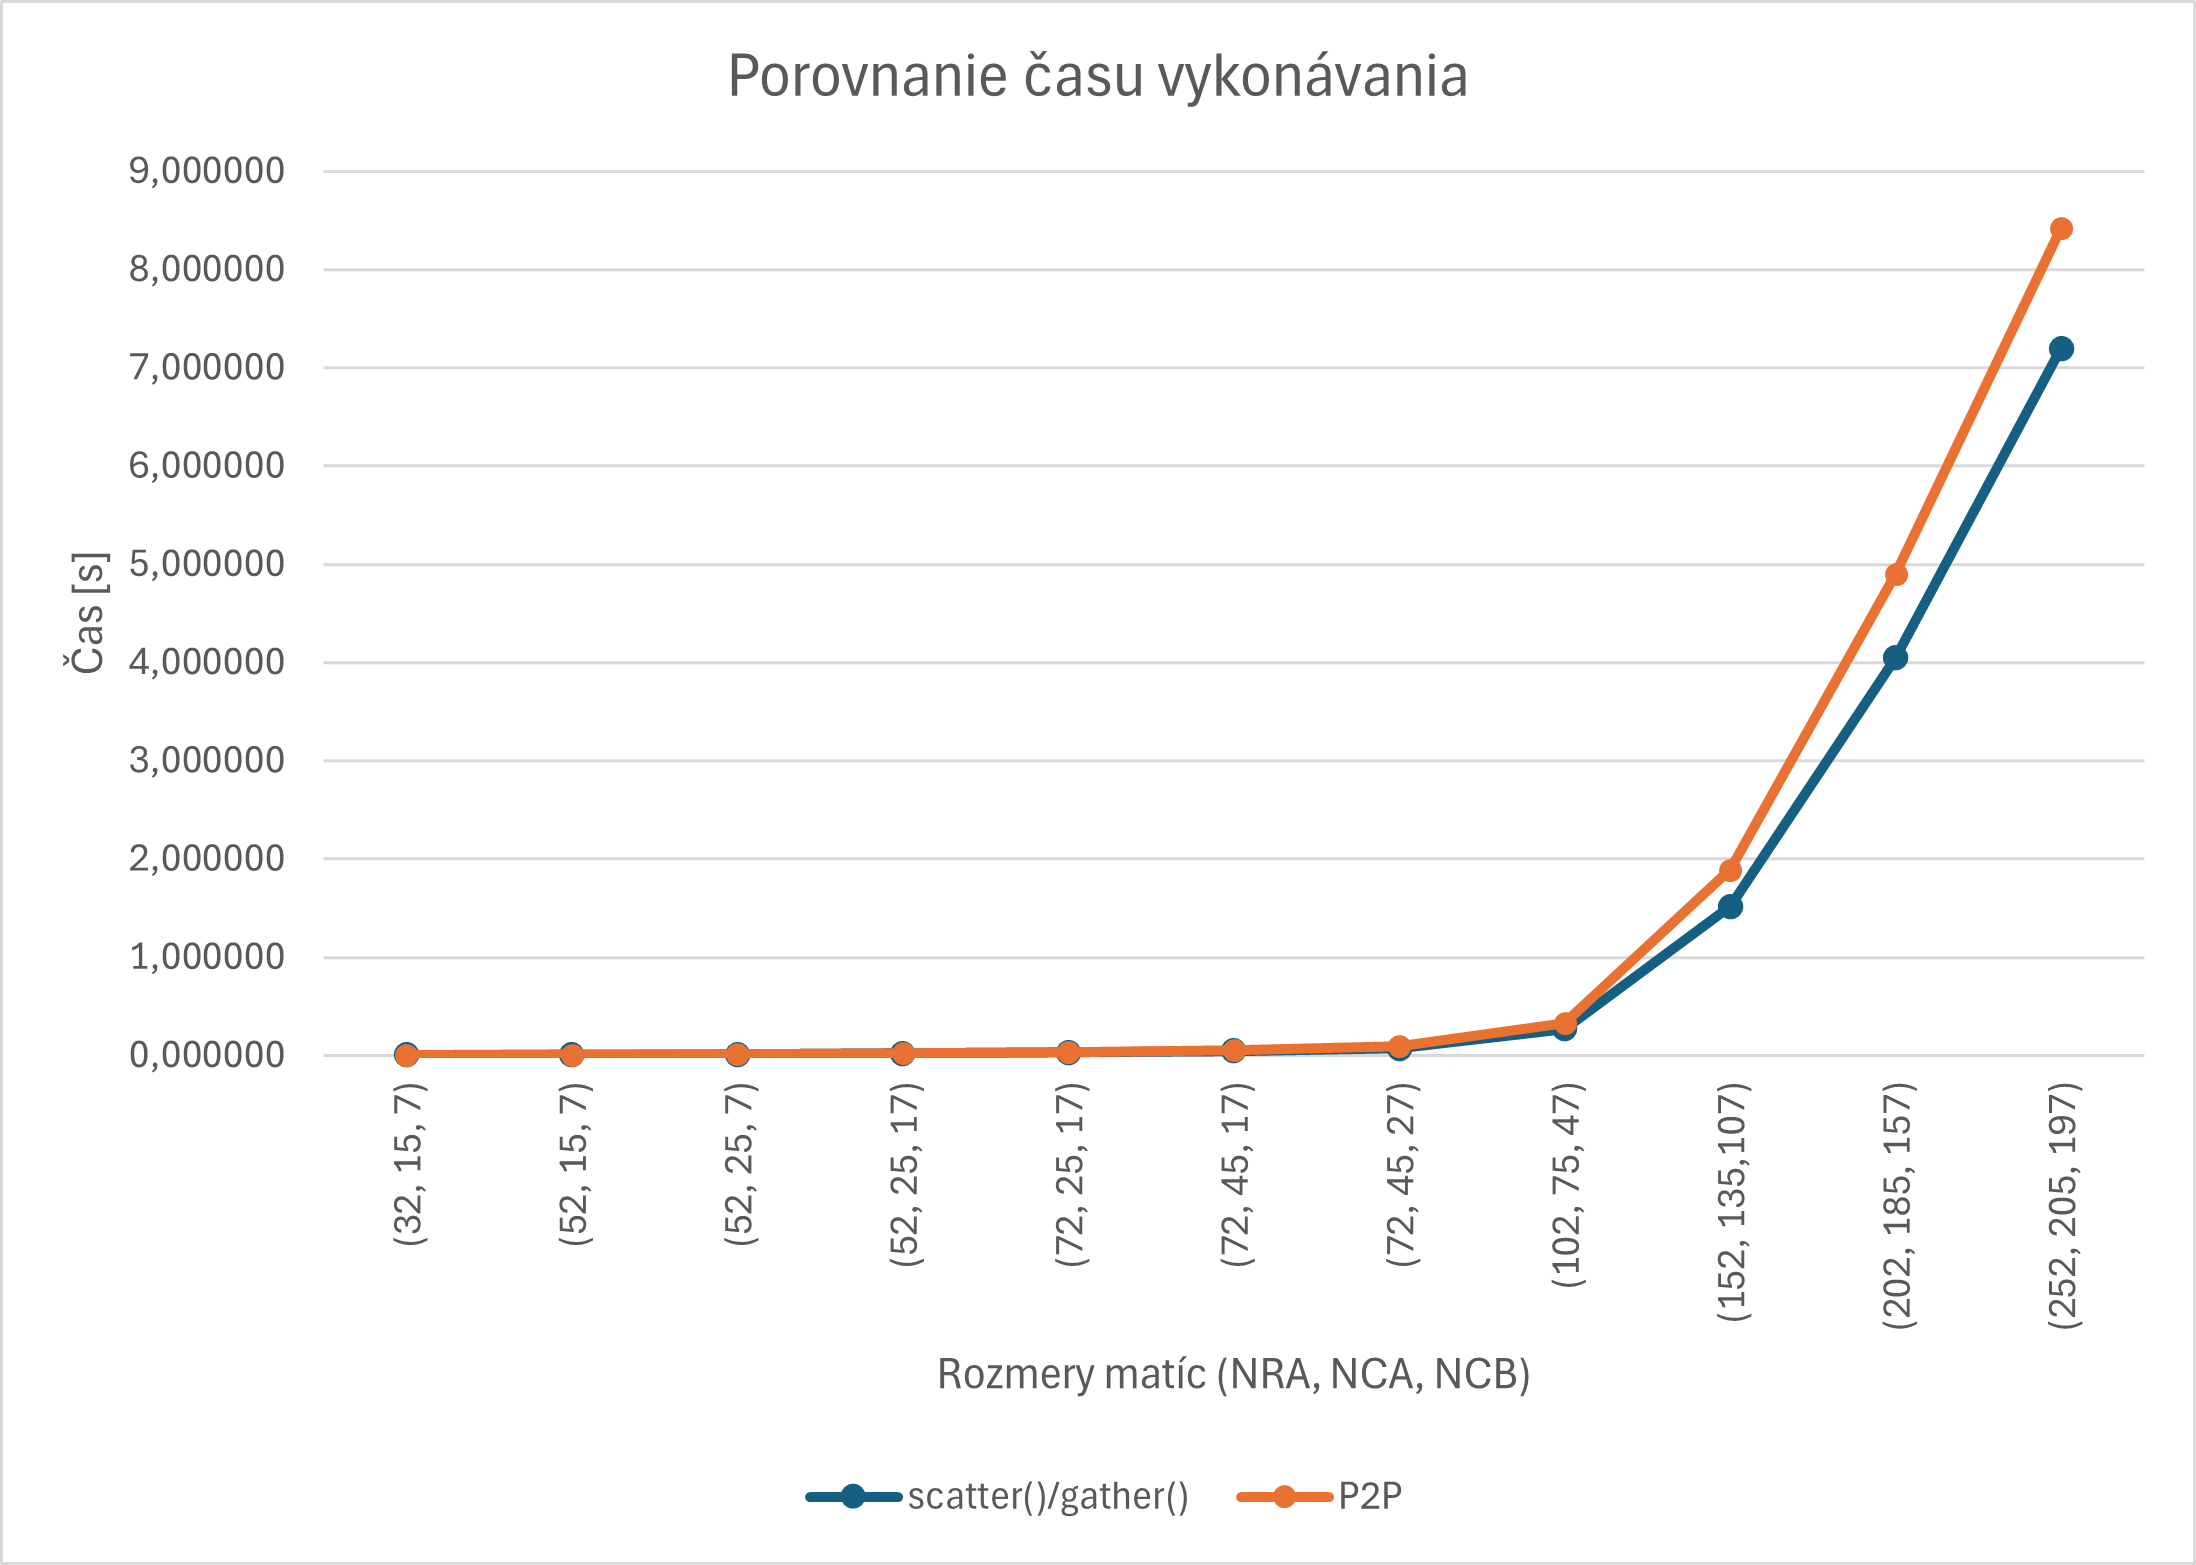
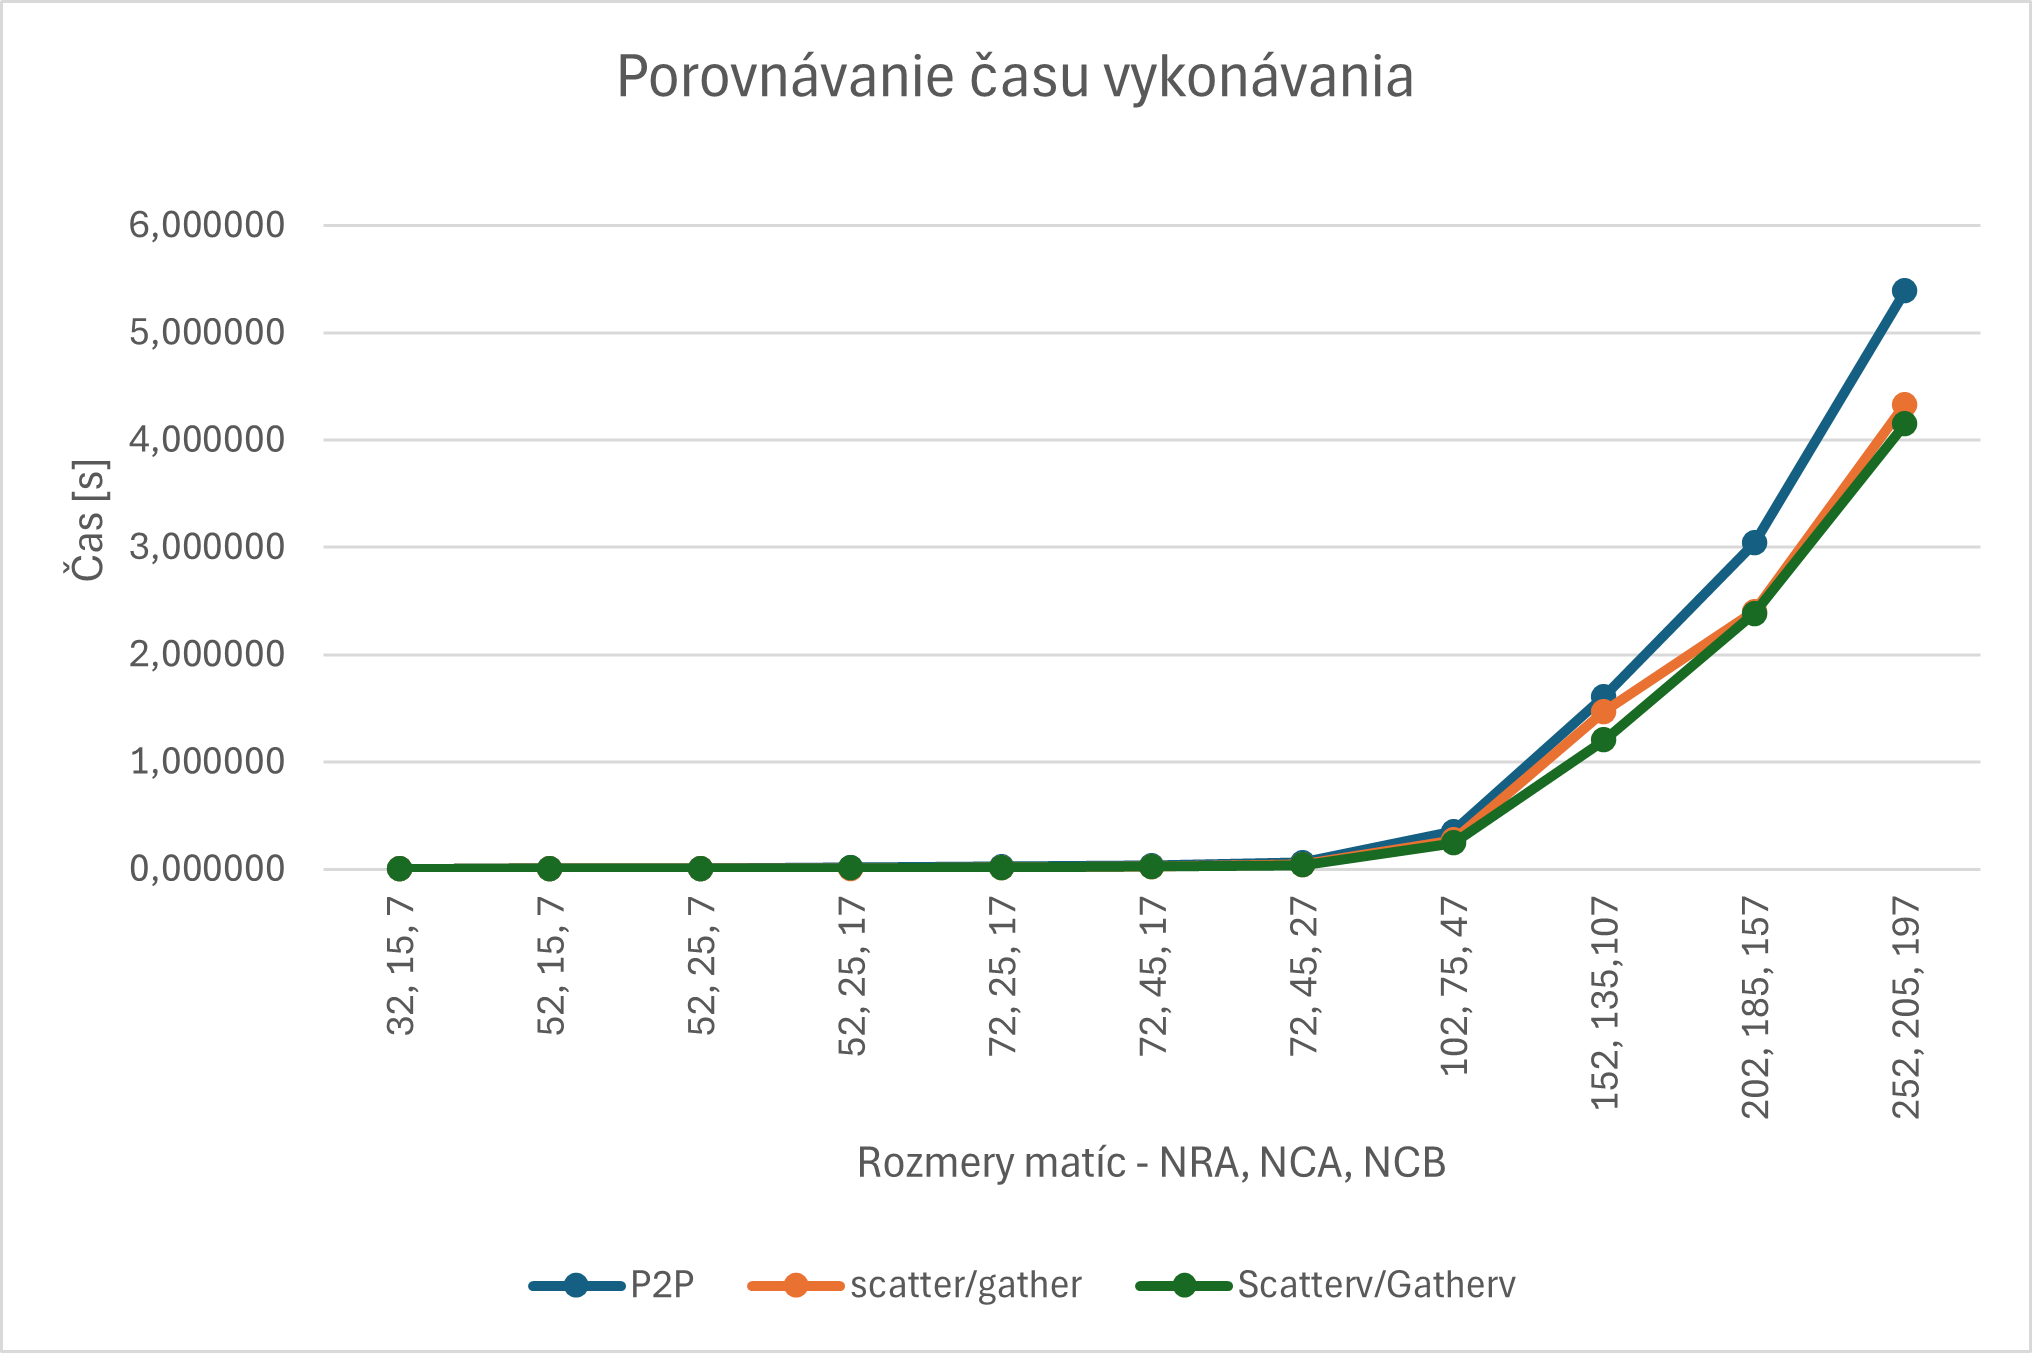
docs: add a description to the bonus solution

diff --git a/README.md b/README.md
@@ -1,7 +1,7 @@
 # Dokumentácia k zadaniu číslo 3
 Cieľom tohto zadania bolo modifikovať program **násobenia matíc**
 nasledovne:
-1. Umožnite program vykonávať **ľubovoľnému počtu pracovných uzlov**.
+1. Umožnite **ľubovoľnému počtu pracovných uzlov** vykonávať program.
 To znamená, že počet riadkov matice A nebude musieť byť deliteľný
 bezo zvyšku počtom uzlov výpočtu.
 2. Na distribúciu podmatíc A_i jednotlivým uzlom a poskladanie výslednej
@@ -14,44 +14,57 @@ Modifikovať bolo potrebné rozdelenie matice A. Ak počet pracovných uzlov
 delí počet riadkov matice A bezo zvyšku, každý uzol dostane rovnako veľkú
 podmaticu matice A. Ak je zvyšok po delení väčší ako 0, toľko pracovných
 uzlov bude mať podmaticu o 1 riadok väčšiu. Toto rozdelenie realizuje 
-funkcia **initialise_matrix_a(extra_rows, total_rows, nproc, rows_per_proc)**.
+funkcia **initialise_matrix_a(rows, offsets)**.
 Podmatice sú ukladané do poľa a následne odoslané všetkým pracovným 
 uzlom pomocou funkcie **scatter()**. Po vykonaní operácie násobenia sú 
 zas zhromadžené v uzle **MASTER** pomocou funkcie **gather()**.
 
+## Bonus
+Bonusom v tomto zadaní bolo definovanie vlastných údajových typov MPI 
+a využívanie natívnych metód MPI. Ako vlastné údajové typy som si definovala
+**a_row/b_row** na reprezentáciu riadkov matice **A**/**B**. Na distribúciu matice A som 
+využila funkciu **Scatterv()** a na zhromaždenie jednotlivých podmatíc matice C
+som použila funkciu **Gatherv()**. Tieto funkcie vyžadovali aj informácie o veľkostiach
+a offsetoch jednotlivých podmatíc, ktoré som posielala v premenných **rows a offsets**.
+
+
 ## Experimenty
 Úlohou zadania bolo aj vykonanie experimentov porovnania implementácií
-s P2P kominukáciou a s metódami kolektívnej komunikácie scatter()/gather().
+s **P2P** kominukáciou, metódami kolektívnej komunikácie **scatter()/gather()** a 
+s **natívnymi metódami MPI**.
 Experimenty som vykonala s 3 pracovnými uzlami, preto som si upravila aj 
 implementáciu s P2P komunikáciu, ktorá sa nachádza v súbore **p2p.py**.
-Postupne som zväčšovala rozmery matíc A a B. Pre jednu kombináciu 
-rozmerov som program spustila 100-krát a vypočítala priemerný čas behu.
+Postupne som zväčšovala rozmery matíc **A** a **B**. Pre jednu kombináciu 
+rozmerov som program spustila **100-krát** a vypočítala priemerný čas behu.
 Priemerné časy pre jednotlivé rozmery matíc sú zaznamenané v 
-nasledujúcej tabuľke a znázornené na nasledujúcom grafe.
+nasledujúcej **tabuľke** a znázornené na nasledujúcom **grafe**.
 
-| Rozmery matíc (NRA, NCA, NCB) | Čas - scatter()/gather() | Čas - P2P |
-|-------------------------------|--------------------------|-----------|
-| (32, 15, 7)                   | 0,003802                 | 0,004856  |
-| (52, 15, 7)                   | 0,004444                 | 0,007886  |
-| (52, 25, 7)                   | 0,010033                 | 0,012299  |
-| (52, 25, 17)                  | 0,018706                 | 0,024193  |
-| (72, 25, 17)                  | 0,029019                 | 0,035508  |
-| (72, 45, 17)                  | 0,045822                 | 0,058678  |
-| (72, 45, 27)                  | 0,069702                 | 0,091644  |
-| (102, 75, 47)                 | 0,270959                 | 0,332301  |
-| (152, 135,107)                | 1,520105                 | 1,891139  |
-| (202, 185, 157)               | 4,047501                 | 4,900213  |
-| (252, 205, 197)               | 7,198857                 | 8,422103  |
+| Rozmery matíc (NRA, NCA, NCB) | Čas - P2P | Čas - scatter()/gather() | Čas - Scatterv()/Gatherv() |
+|-------------------------------|-----------|--------------------------|----------------------------|
+| (32, 15, 7)                   | 0,002546  | 0,001855                 | 0,001760                   |
+| (52, 15, 7)                   | 0,003881  | 0,002810                 | 0,002798                   |
+| (52, 25, 7)                   | 0,006476  | 0,005374                 | 0,004498                   |
+| (52, 25, 17)                  | 0,014713  | 0,007840                 | 0,010746                   |
+| (72, 25, 17)                  | 0,021450  | 0,014789                 | 0,013476                   |
+| (72, 45, 17)                  | 0,035718  | 0,027385                 | 0,025179                   |
+| (72, 45, 27)                  | 0,061406  | 0,043807                 | 0,037795                   |
+| (102, 75, 47)                 | 0,350285  | 0,272562                 | 0,244388                   |
+| (152, 135,107)                | 1,608046  | 1,470555                 | 1,203138                   |
+| (202, 185, 157)               | 3,041047  | 2,403920                 | 2,382729                   |
+| (252, 205, 197)               | 5,389868  | 4,330555                 | 4,149160                   |
 
 <img src="graf.png" alt="Graf" width="650" height="400">
 
-Ako môžeme vidieť či už v tabuľke alebo na grafe, čas behu programu s 
-použitím funkcií scatter()/gather() je kratší ako čas behu programu s P2P
-komunikáciou pre všetky veľkosti matíc. Pri menších rozmeroch je rozdiel
+Ako môžeme vidieť, či už v tabuľke alebo na grafe, pre **priemerné časy** behov programov
+platí nasledujúci vzťah **Scatterv()/Gatherv() < scatter()/gather() < P2P**
+pre všetky veľkosti matíc. Pri menších rozmeroch je rozdiel
 minimálny a postupne sa zväčšuje spolu so zväčšujúcimi sa rozmermi matíc.
-Pri rozmeroch matice A 252x205 a matice B 205x197 rozdiel časov presiahol
-1 sekundu.
+Pri rozmeroch matice **A 252x205** a matice **B 205x197** rozdiel časov implementácie 
+s P2P komunikáciou a implementáciou pomocou scatter()/gather() alebo
+Scatterv()/Gatherv() presiahol 1 sekundu.
 
 ## Zdroje
 - zdrojové súbory zo seminára číslo 7 dostupné na: 
 https://elearn.elf.stuba.sk/moodle/mod/folder/view.php?id=27376
+- zdrojové kódy dostupné na stránke:
+https://www.kth.se/blogs/pdc/2019/11/parallel-programming-in-python-mpi4py-part-2/
